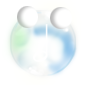
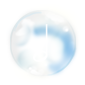
theme3

Changed region(s): [[0.1412, 0.3294, 0.3059, 0.5882], [0.1882, 0.0706, 0.4471, 0.3294], [0.5882, 0.0706, 0.7529, 0.3529]]

diff --git a/PopnTouchi2/PopnTouchi2/ViewModel/ThemeChooser.cs b/PopnTouchi2/PopnTouchi2/ViewModel/ThemeChooser.cs
@@ -228,6 +228,47 @@ namespace PopnTouchi2.ViewModel
                 sessionVM.Grid.Children.Remove(Themes);
                 return;
             }
+            sessionVM.Session.StopBackgroundSound();
+            sessionVM.Session.Theme = new Theme3();
+            sessionVM.Session.ThemeID = 3;
+            sessionVM.ThemeVM = new ThemeViewModel(sessionVM.Session.Theme, sessionVM);
+            sessionVM.Grid.Background = sessionVM.ThemeVM.BackgroundImage;
+
+            sessionVM.Grid.Children.Remove(sessionVM.NbgVM.Grid);
+            sessionVM.Grid.Children.Remove(sessionVM.MbgVM.Grid);
+            sessionVM.Grid.Children.Remove(sessionVM.Bubbles);
+            sessionVM.Grid.Children.Remove(sessionVM.UpdateSound.Grid1);
+            sessionVM.Grid.Children.Remove(sessionVM.UpdateSound.Grid2);
+            sessionVM.Grid.Children.Remove(sessionVM.Play_Button);
+            sessionVM.Grid.Children.Remove(sessionVM.Theme_Button);
+            sessionVM.Grid.Children.Remove(sessionVM.TreeUp.Grid);
+            sessionVM.Grid.Children.Remove(sessionVM.TreeDown.Grid);
+
+
+            sessionVM.NbgVM = new NoteBubbleGeneratorViewModel(sessionVM.Session.NoteBubbleGenerator, sessionVM);
+            sessionVM.MbgVM = new MelodyBubbleGeneratorViewModel(sessionVM.Session.MelodyBubbleGenerator, sessionVM);
+            sessionVM.Bubbles = new ScatterView();
+            sessionVM.UpdateSound = new ChangeSoundViewModel(sessionVM);
+            sessionVM.Play_Button.Background = sessionVM.ThemeVM.PlayImage;
+            sessionVM.Theme_Button.Background = sessionVM.ThemeVM.ThemesImage;
+            sessionVM.Session.StaveTop.CurrentInstrument = sessionVM.Session.Theme.InstrumentsTop[0];
+            sessionVM.Session.StaveBottom.CurrentInstrument = sessionVM.Session.Theme.InstrumentsBottom[0];
+            sessionVM.displayTrees(new Thickness(20, 0, 0, 130), new Thickness(20, 0, 0, 580));
+
+            sessionVM.SetDimensions(sessionVM.SessionSVI.Width, sessionVM.SessionSVI.Height);
+            sessionVM.Session.PlayBackgroundSound();
+
+
+            sessionVM.Grid.Children.Add(sessionVM.NbgVM.Grid);
+            sessionVM.Grid.Children.Add(sessionVM.MbgVM.Grid);
+            sessionVM.Grid.Children.Add(sessionVM.Bubbles);
+            sessionVM.Grid.Children.Add(sessionVM.UpdateSound.Grid1);
+            sessionVM.Grid.Children.Add(sessionVM.UpdateSound.Grid2);
+            sessionVM.Grid.Children.Add(sessionVM.Play_Button);
+            sessionVM.Grid.Children.Add(sessionVM.Theme_Button);
+
+            sessionVM.Grid.Children.Remove(Grid);
+            sessionVM.Grid.Children.Remove(Themes);
         }
     }
 }
